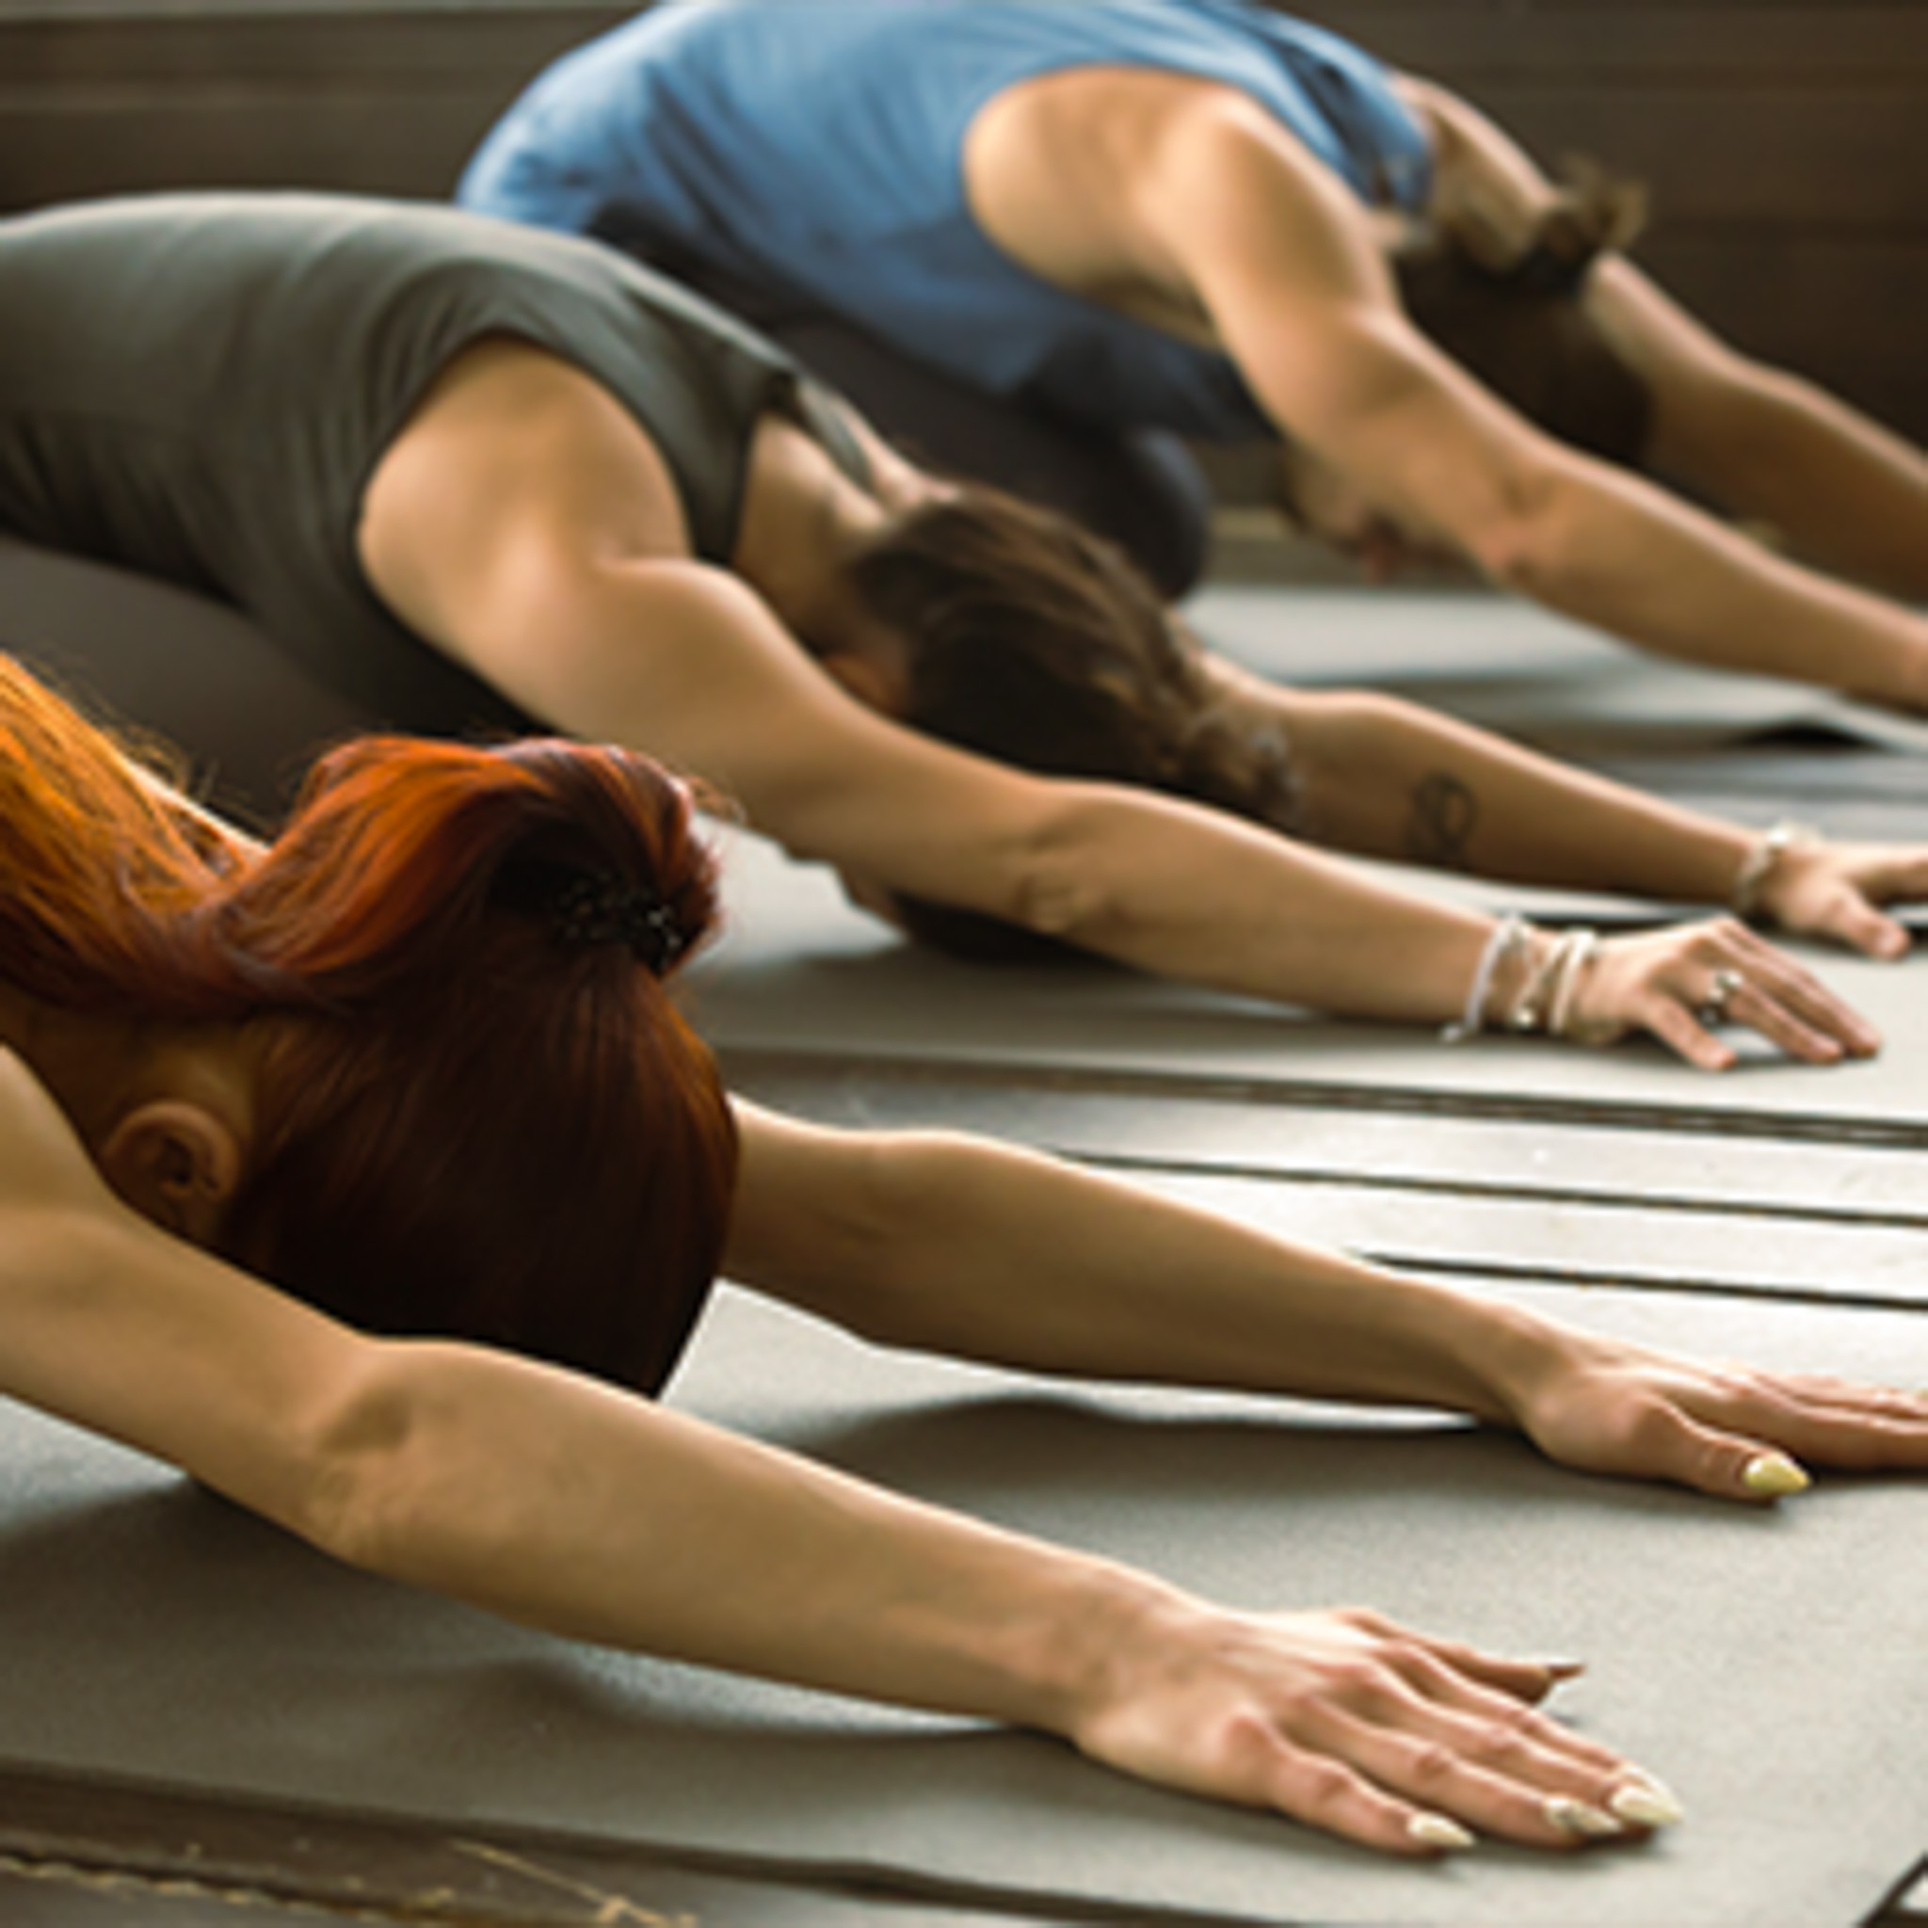
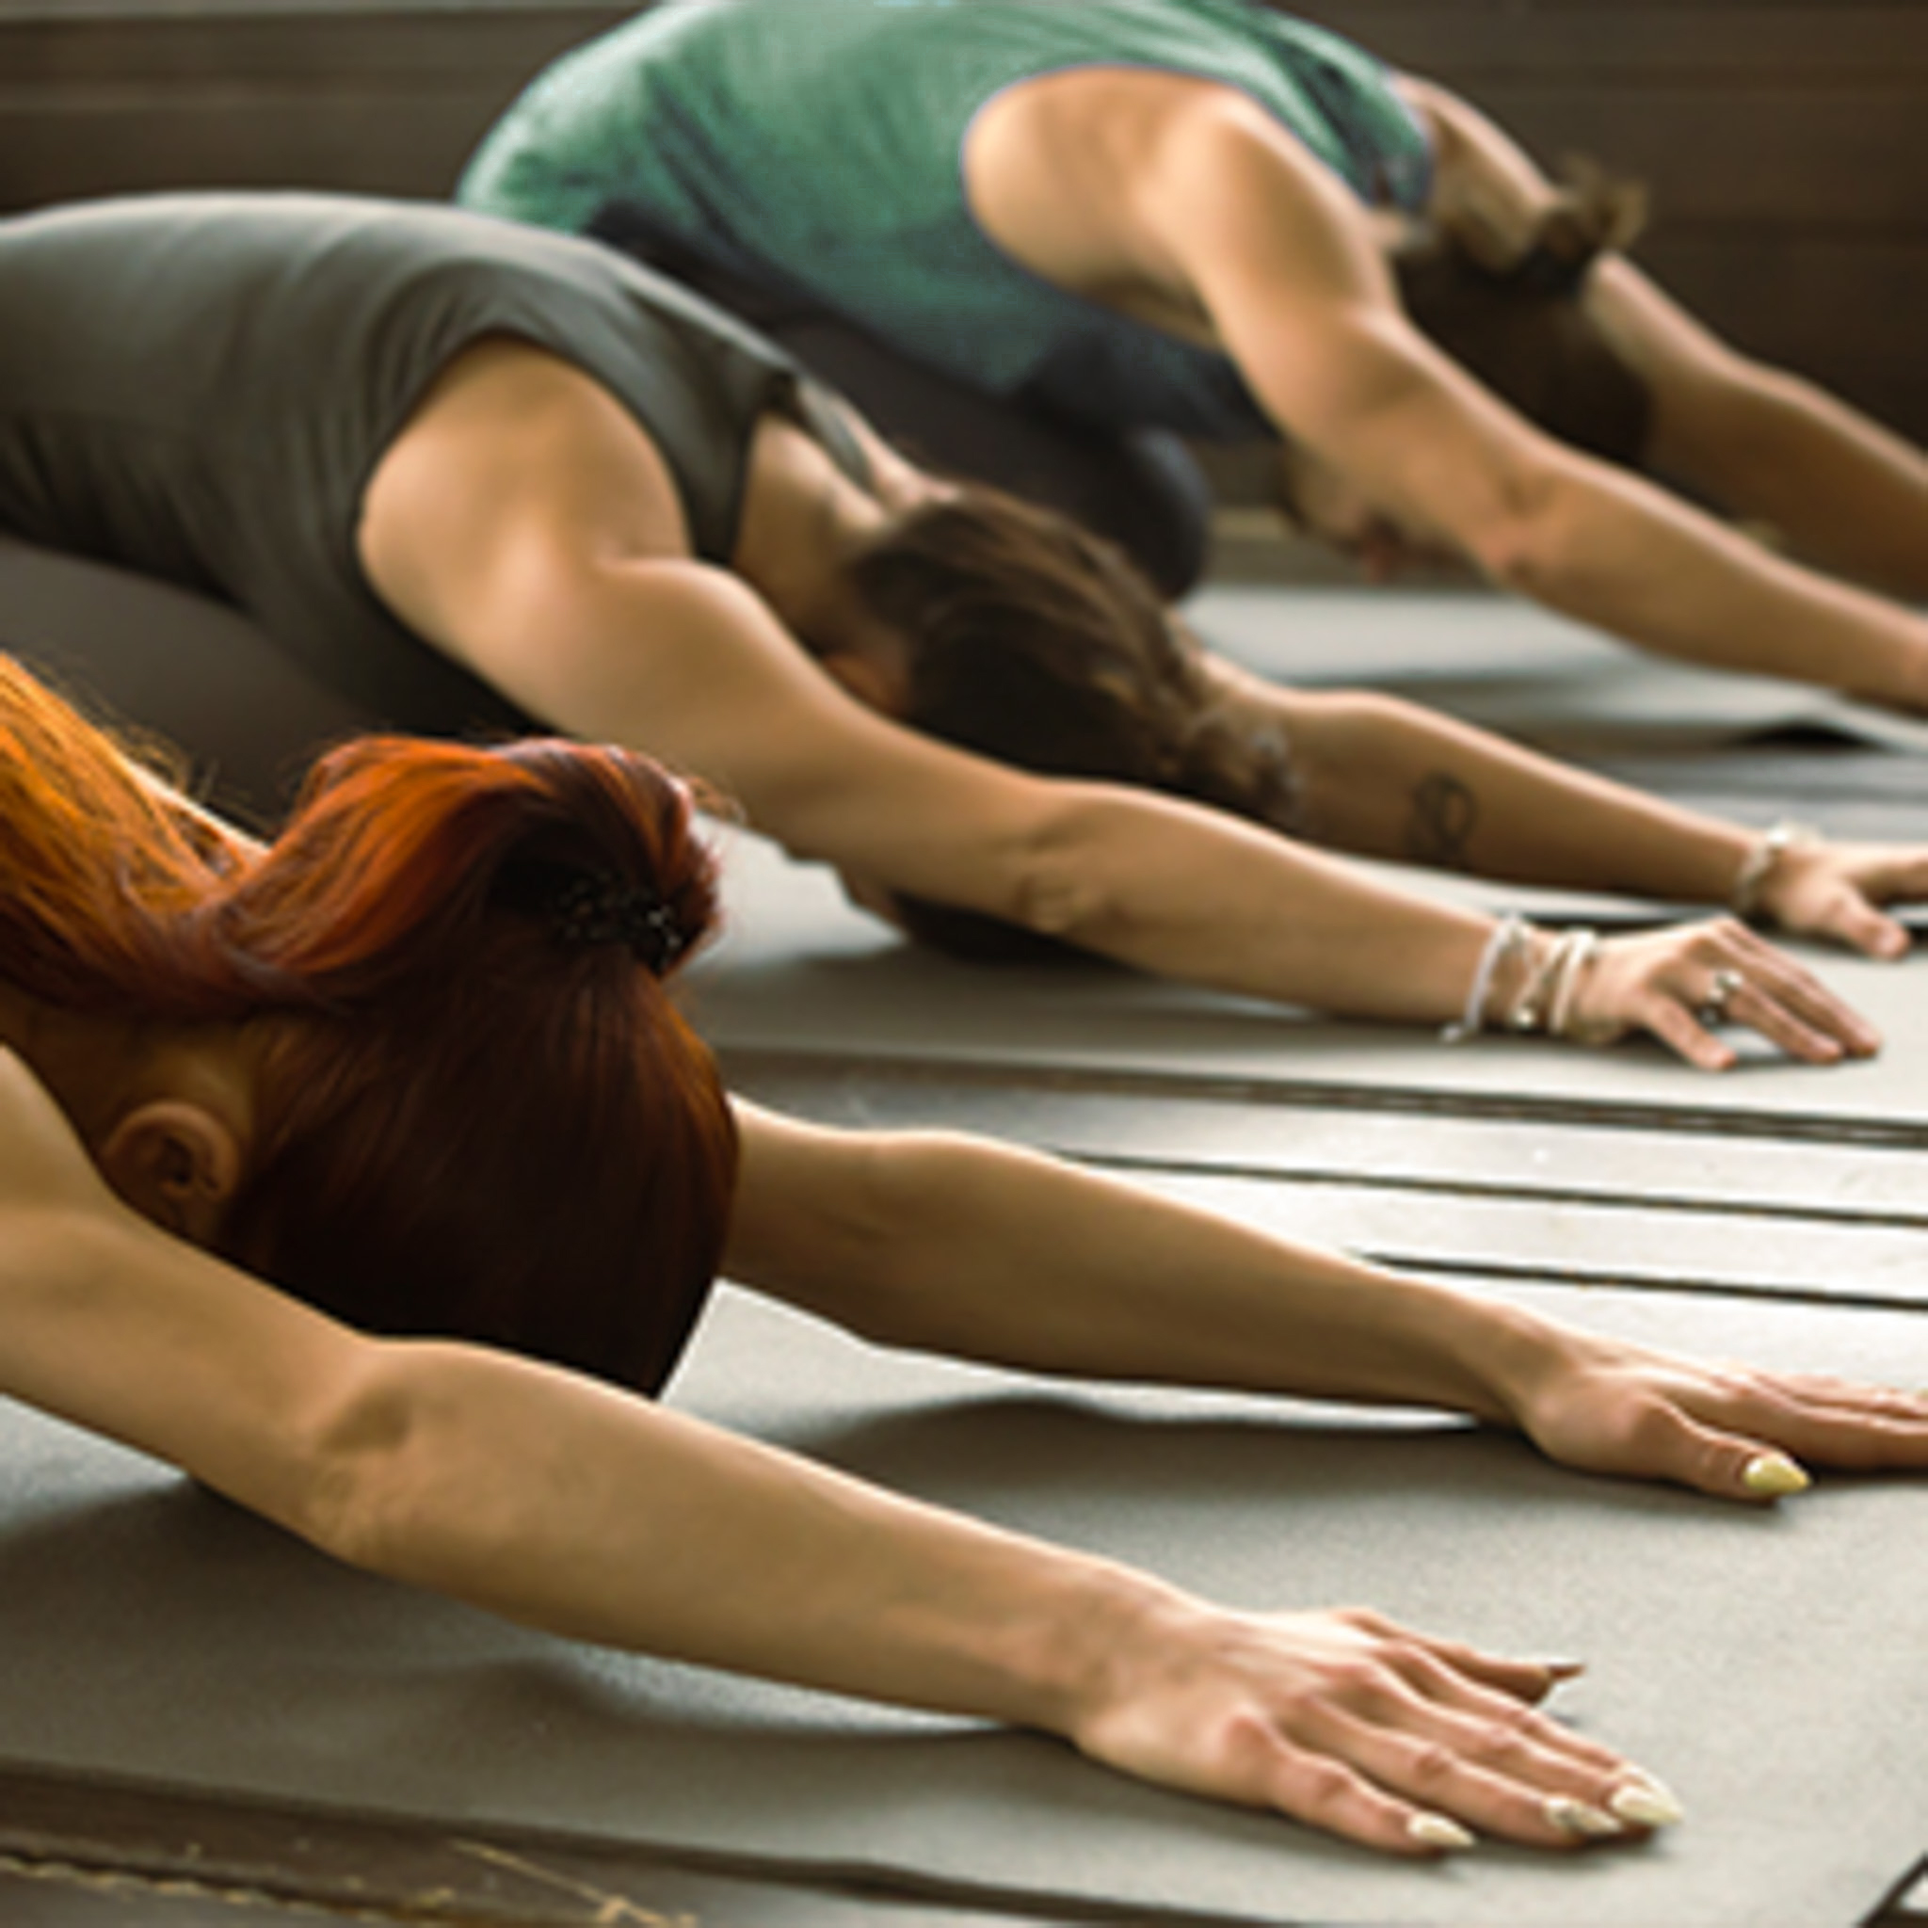
lol

Changed region(s): [[0.2188, 0.0, 0.75, 0.1562]]

diff --git a/retreat.html b/retreat.html
@@ -247,8 +247,8 @@
         <div class="smal">
             <p><i><br>
                     hoe fijn om jezelf in de guurste maand van het jaar een warm winterweekend cadeau te doen?
-                    laat je drie dagen lekker door <a style="color:tomato" href="#wie">ons</a> verzorgen, inspireren en
-                    voeden (letterlijk)
+                    laat je drie dagen lang lekker door <a style="color:tomato" href="#wie">ons</a> verzorgen,
+                    voeden (letterlijk) en inspireren
                     met yoga,
                     verwarmende
                     seizoensgerechten en creatieve sessies. met een kleine groep op een <a style="color:tomato"
@@ -278,7 +278,7 @@
                     nooit op een mat hebt gestaan.
                 </p>
                 <div class="plaatjes">
-                    <img src="/kamers/yogales.jpg" alt="yogales" style="--r: 1">
+                    <img src="/kamers/yogales.jpg" alt="yogales" style="--r:1">
                 </div>
             </li>
             <li>
@@ -286,23 +286,28 @@
                 <p>
                     we koken het hele weekend met wat het seizoen te bieden heeft. biologisch, lokaal en vegetarisch.
                     Renée ontwerpt een bijzonder menu dat precies aansluit bij de thema's in de yogalessen en de
-                    creatieve sessies.
+                    creatieve sessies. <br>
                 </p>
                 <div class="plaatjes">
-                    <img src="/eten/eten2.jpg" alt="" style="--r: 1.5">
                     <img src="/eten/eten3.png" alt="" style="--r: 1">
+                    <img src="/eten/eten2.jpg" alt="" style="--r: 1.5">
+
                 </div>
             </li>
 
             <li>
                 <h3>workshops</h3>
                 <p>
-                    bij een winterweekend hoort wat ons betreft ook binnen blijven en met je handen bezig zijn. geen
-                    betere manier om uit je hoofd te raken dan met creatieve activiteiten.
-                </p>
-                <!-- <div class="plaatjes">
-                    <img src="/fotos/....png" alt="" style="--r: 1.5">
-                </div> -->
+                    Bij een winterweekend hoort wat ons betreft ook binnen blijven en met je handen bezig zijn, want zo
+                    kom je het makkelijkst uit je hoofd. we hebben een programma gemaakt waarin we samen maken, proeven
+                    en reflecteren, aan de grote tafel en in de keuken. </p>
+                <div class="plaatjes">
+                    <img src="/kamers/workshop2.jpg" alt="" style="--r: 1.4">
+                    <img src="/kamers/workshop.png" alt="" style="--r: 1">
+
+
+
+                </div>
             </li>
         </ol>
     </section>
@@ -438,7 +443,7 @@
             </div>
             <div>
                 <dt>prijs</dt>
-                <dd>€695 per persoon</dd>
+                <dd>€750 per persoon (€55 korting voor vroegboekers! 🐦⬛) </dd>
             </div>
             <div>
                 <dt>inbegrepen</dt>

diff --git a/retreat.css b/retreat.css
@@ -769,6 +769,11 @@ section > .label {
   margin-top: 18px;
 }
 
+/* bij wat gaan we doen staan de plaatjes alleen onder de tekst, niet over de hele lijn */
+.onderdelen li:not(.naast) .plaatjes {
+  grid-column: 2;
+}
+
 /* bij class="naast" komt de foto in een derde kolom, rechts naast de tekst.
    het laatste getal is hoe breed de foto is */
 .onderdelen li.naast {
@@ -1137,7 +1142,8 @@ footer .stempel ellipse {
     gap: 6px;
   }
 
-  .plaatjes {
+  .plaatjes,
+  .onderdelen li:not(.naast) .plaatjes {
     grid-column: 1;
     gap: 6px;
   }
